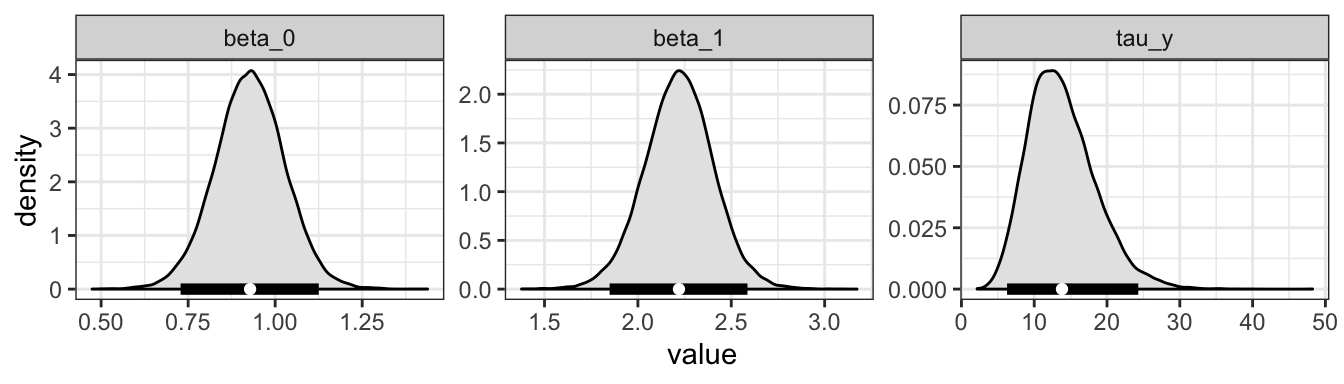
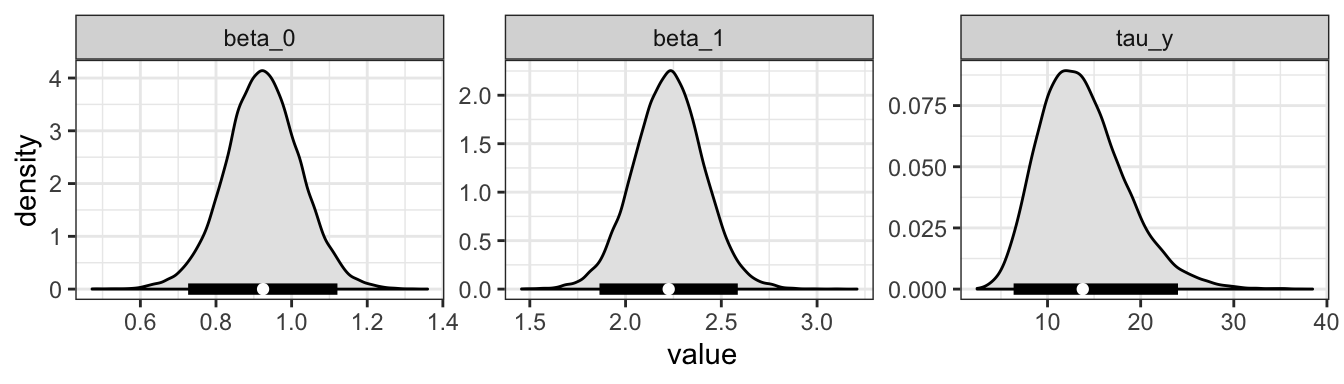
version bump + build pkgdown

diff --git a/docs/articles/lm.html b/docs/articles/lm.html
@@ -30,7 +30,7 @@
       </button>
       <span class="navbar-brand">
         <a class="navbar-link" href="../index.html">mmcc</a>
-        <span class="version label label-default" data-toggle="tooltip" data-placement="bottom" title="Released version">0.0.8.9200</span>
+        <span class="version label label-default" data-toggle="tooltip" data-placement="bottom" title="Released version">0.0.8.9300</span>
       </span>
     </div>
 
@@ -64,7 +64,7 @@
       <h1>Model summaries for a Bayesian linear regression</h1>
                         <h4 class="author">Sam Clifford</h4>
             
-            <h4 class="date">2019-01-30</h4>
+            <h4 class="date">2019-02-01</h4>
       
       
       <div class="hidden name"><code>lm.Rmd</code></div>
@@ -160,17 +160,17 @@
 <a class="sourceLine" id="cb6-4" data-line-number="4">samples_dt &lt;-<span class="st"> </span><span class="kw"><a href="../reference/mcmc_to_dt.html">mcmc_to_dt</a></span>(samples)</a>
 <a class="sourceLine" id="cb6-5" data-line-number="5">samples_dt</a>
 <a class="sourceLine" id="cb6-6" data-line-number="6"><span class="co">#&gt;         iteration chain  parameter     value</span></a>
-<a class="sourceLine" id="cb6-7" data-line-number="7"><span class="co">#&gt;      1:         1     1     beta_0 0.8760933</span></a>
-<a class="sourceLine" id="cb6-8" data-line-number="8"><span class="co">#&gt;      2:         2     1     beta_0 0.8384327</span></a>
-<a class="sourceLine" id="cb6-9" data-line-number="9"><span class="co">#&gt;      3:         3     1     beta_0 0.9508520</span></a>
-<a class="sourceLine" id="cb6-10" data-line-number="10"><span class="co">#&gt;      4:         4     1     beta_0 0.8710586</span></a>
-<a class="sourceLine" id="cb6-11" data-line-number="11"><span class="co">#&gt;      5:         5     1     beta_0 0.9335808</span></a>
+<a class="sourceLine" id="cb6-7" data-line-number="7"><span class="co">#&gt;      1:         1     1     beta_0 0.9112238</span></a>
+<a class="sourceLine" id="cb6-8" data-line-number="8"><span class="co">#&gt;      2:         2     1     beta_0 0.8010436</span></a>
+<a class="sourceLine" id="cb6-9" data-line-number="9"><span class="co">#&gt;      3:         3     1     beta_0 0.8643769</span></a>
+<a class="sourceLine" id="cb6-10" data-line-number="10"><span class="co">#&gt;      4:         4     1     beta_0 0.7944889</span></a>
+<a class="sourceLine" id="cb6-11" data-line-number="11"><span class="co">#&gt;      5:         5     1     beta_0 0.8408893</span></a>
 <a class="sourceLine" id="cb6-12" data-line-number="12"><span class="co">#&gt;     ---                                     </span></a>
-<a class="sourceLine" id="cb6-13" data-line-number="13"><span class="co">#&gt; 689996:      9996     3 y_pred[10] 3.1550568</span></a>
-<a class="sourceLine" id="cb6-14" data-line-number="14"><span class="co">#&gt; 689997:      9997     3 y_pred[10] 3.1757384</span></a>
-<a class="sourceLine" id="cb6-15" data-line-number="15"><span class="co">#&gt; 689998:      9998     3 y_pred[10] 3.0129327</span></a>
-<a class="sourceLine" id="cb6-16" data-line-number="16"><span class="co">#&gt; 689999:      9999     3 y_pred[10] 2.8482221</span></a>
-<a class="sourceLine" id="cb6-17" data-line-number="17"><span class="co">#&gt; 690000:     10000     3 y_pred[10] 2.2779931</span></a>
+<a class="sourceLine" id="cb6-13" data-line-number="13"><span class="co">#&gt; 689996:      9996     3 y_pred[10] 3.5722373</span></a>
+<a class="sourceLine" id="cb6-14" data-line-number="14"><span class="co">#&gt; 689997:      9997     3 y_pred[10] 3.3416762</span></a>
+<a class="sourceLine" id="cb6-15" data-line-number="15"><span class="co">#&gt; 689998:      9998     3 y_pred[10] 3.0006974</span></a>
+<a class="sourceLine" id="cb6-16" data-line-number="16"><span class="co">#&gt; 689999:      9999     3 y_pred[10] 3.3961728</span></a>
+<a class="sourceLine" id="cb6-17" data-line-number="17"><span class="co">#&gt; 690000:     10000     3 y_pred[10] 3.3583402</span></a>
 <a class="sourceLine" id="cb6-18" data-line-number="18"></a>
 <a class="sourceLine" id="cb6-19" data-line-number="19">pars_dt &lt;-<span class="st"> </span><span class="kw"><a href="https://www.rdocumentation.org/packages/generics/topics/tidy">tidy</a></span>(samples, </a>
 <a class="sourceLine" id="cb6-20" data-line-number="20">                <span class="dt">conf_level =</span> <span class="fl">0.95</span>, </a>
@@ -179,10 +179,10 @@
 <a class="sourceLine" id="cb6-23" data-line-number="23">                             <span class="st">"tau_y"</span>))</a>
 <a class="sourceLine" id="cb6-24" data-line-number="24"></a>
 <a class="sourceLine" id="cb6-25" data-line-number="25">pars_dt</a>
-<a class="sourceLine" id="cb6-26" data-line-number="26"><span class="co">#&gt;    parameter       mean        sd      2.5%     median     97.5%</span></a>
-<a class="sourceLine" id="cb6-27" data-line-number="27"><span class="co">#&gt; 1:    beta_0  0.9279217 0.1008911 0.7283281  0.9279731  1.125280</span></a>
-<a class="sourceLine" id="cb6-28" data-line-number="28"><span class="co">#&gt; 2:    beta_1  2.2199566 0.1855733 1.8485833  2.2213792  2.586719</span></a>
-<a class="sourceLine" id="cb6-29" data-line-number="29"><span class="co">#&gt; 3:     tau_y 13.8161022 4.6245668 6.2701035 13.3028801 24.296097</span></a></code></pre></div>
+<a class="sourceLine" id="cb6-26" data-line-number="26"><span class="co">#&gt;    parameter      mean        sd      2.5%    median     97.5%</span></a>
+<a class="sourceLine" id="cb6-27" data-line-number="27"><span class="co">#&gt; 1:    beta_0  0.924492 0.0994490 0.7262698  0.923934  1.121158</span></a>
+<a class="sourceLine" id="cb6-28" data-line-number="28"><span class="co">#&gt; 2:    beta_1  2.225250 0.1834351 1.8637230  2.226307  2.585992</span></a>
+<a class="sourceLine" id="cb6-29" data-line-number="29"><span class="co">#&gt; 3:     tau_y 13.782520 4.5543831 6.3572410 13.303498 24.008296</span></a></code></pre></div>
 <p>Summarise the line of best fit, <code>mu</code>, and the predictions, <code>y_pred</code>,</p>
 <div class="sourceCode" id="cb7"><pre class="sourceCode r"><code class="sourceCode r"><a class="sourceLine" id="cb7-1" data-line-number="1">mu_dt &lt;-<span class="st"> </span><span class="kw"><a href="https://www.rdocumentation.org/packages/generics/topics/tidy">tidy</a></span>(samples, </a>
 <a class="sourceLine" id="cb7-2" data-line-number="2">              <span class="dt">conf_level =</span> <span class="fl">0.95</span>, </a>
@@ -195,17 +195,17 @@
 <div class="sourceCode" id="cb8"><pre class="sourceCode r"><code class="sourceCode r"><a class="sourceLine" id="cb8-1" data-line-number="1">mu_dt[ , x<span class="op">:</span><span class="er">=</span><span class="st"> </span>x_pred]</a>
 <a class="sourceLine" id="cb8-2" data-line-number="2">y_dt[ , x<span class="op">:</span><span class="er">=</span><span class="st"> </span>x_pred]</a>
 <a class="sourceLine" id="cb8-3" data-line-number="3">y_dt</a>
-<a class="sourceLine" id="cb8-4" data-line-number="4"><span class="co">#&gt;      parameter      mean        sd      2.5%   median    97.5%         x</span></a>
-<a class="sourceLine" id="cb8-5" data-line-number="5"><span class="co">#&gt;  1:  y_pred[1] 0.9548077 0.3045670 0.3592322 0.954215 1.561929 0.0112199</span></a>
-<a class="sourceLine" id="cb8-6" data-line-number="6"><span class="co">#&gt;  2:  y_pred[2] 1.1960730 0.2982312 0.6118881 1.197640 1.793844 0.1202395</span></a>
-<a class="sourceLine" id="cb8-7" data-line-number="7"><span class="co">#&gt;  3:  y_pred[3] 1.4370874 0.2937579 0.8548740 1.437338 2.016432 0.2292590</span></a>
-<a class="sourceLine" id="cb8-8" data-line-number="8"><span class="co">#&gt;  4:  y_pred[4] 1.6771841 0.2923636 1.0957180 1.678103 2.255539 0.3382786</span></a>
-<a class="sourceLine" id="cb8-9" data-line-number="9"><span class="co">#&gt;  5:  y_pred[5] 1.9210605 0.2932465 1.3441529 1.920784 2.500208 0.4472982</span></a>
-<a class="sourceLine" id="cb8-10" data-line-number="10"><span class="co">#&gt;  6:  y_pred[6] 2.1613441 0.2932627 1.5804239 2.161851 2.744904 0.5563177</span></a>
-<a class="sourceLine" id="cb8-11" data-line-number="11"><span class="co">#&gt;  7:  y_pred[7] 2.4030559 0.2944804 1.8190094 2.402740 2.983987 0.6653373</span></a>
-<a class="sourceLine" id="cb8-12" data-line-number="12"><span class="co">#&gt;  8:  y_pred[8] 2.6462795 0.2984577 2.0518081 2.643821 3.241694 0.7743569</span></a>
-<a class="sourceLine" id="cb8-13" data-line-number="13"><span class="co">#&gt;  9:  y_pred[9] 2.8886681 0.3040799 2.2851520 2.887935 3.491639 0.8833765</span></a>
-<a class="sourceLine" id="cb8-14" data-line-number="14"><span class="co">#&gt; 10: y_pred[10] 3.1322683 0.3115330 2.5160937 3.132009 3.754816 0.9923960</span></a></code></pre></div>
+<a class="sourceLine" id="cb8-4" data-line-number="4"><span class="co">#&gt;      parameter      mean        sd      2.5%    median    97.5%         x</span></a>
+<a class="sourceLine" id="cb8-5" data-line-number="5"><span class="co">#&gt;  1:  y_pred[1] 0.9478433 0.3002920 0.3506615 0.9463829 1.543704 0.0112199</span></a>
+<a class="sourceLine" id="cb8-6" data-line-number="6"><span class="co">#&gt;  2:  y_pred[2] 1.1934373 0.2980774 0.6011571 1.1921787 1.788495 0.1202395</span></a>
+<a class="sourceLine" id="cb8-7" data-line-number="7"><span class="co">#&gt;  3:  y_pred[3] 1.4349571 0.2944812 0.8523959 1.4342498 2.023439 0.2292590</span></a>
+<a class="sourceLine" id="cb8-8" data-line-number="8"><span class="co">#&gt;  4:  y_pred[4] 1.6742918 0.2935478 1.0907819 1.6740384 2.257015 0.3382786</span></a>
+<a class="sourceLine" id="cb8-9" data-line-number="9"><span class="co">#&gt;  5:  y_pred[5] 1.9206716 0.2941172 1.3418086 1.9225791 2.500972 0.4472982</span></a>
+<a class="sourceLine" id="cb8-10" data-line-number="10"><span class="co">#&gt;  6:  y_pred[6] 2.1638978 0.2947522 1.5818237 2.1642891 2.750502 0.5563177</span></a>
+<a class="sourceLine" id="cb8-11" data-line-number="11"><span class="co">#&gt;  7:  y_pred[7] 2.4055666 0.2966433 1.8186290 2.4031570 2.997888 0.6653373</span></a>
+<a class="sourceLine" id="cb8-12" data-line-number="12"><span class="co">#&gt;  8:  y_pred[8] 2.6480627 0.2998802 2.0558604 2.6485508 3.246963 0.7743569</span></a>
+<a class="sourceLine" id="cb8-13" data-line-number="13"><span class="co">#&gt;  9:  y_pred[9] 2.8927452 0.3072666 2.2852859 2.8905180 3.509767 0.8833765</span></a>
+<a class="sourceLine" id="cb8-14" data-line-number="14"><span class="co">#&gt; 10: y_pred[10] 3.1366084 0.3113266 2.5240160 3.1354399 3.759669 0.9923960</span></a></code></pre></div>
 <p>Now we’ll generate a plot that shows the data, a 95% credible interval for the predictions, <span class="math inline">\({\hat{\bm{y}}}_{pred}\)</span>, and a 95% credible interval for their means, <span class="math inline">\({\hat{\bm{\mu}}}_{pred}\)</span>.</p>
 <p><img src="lm_files/figure-html/mmcc-plot-cr-i-1.png" width="700" style="display: block; margin: auto;"></p>
 <p>If we tidy the <code>samples</code> object, we can look at the distribution of values</p>

diff --git a/docs/reference/example_jags_model.html b/docs/reference/example_jags_model.html
@@ -6,7 +6,7 @@
 <meta http-equiv="X-UA-Compatible" content="IE=edge">
 <meta name="viewport" content="width=device-width, initial-scale=1.0">
 
-<title>Batch Means Standard Errors — diag_mc_stderr • mmcc</title>
+<title>Example JAGS Model — example_jags_model • mmcc</title>
 
 <!-- jquery -->
 <script src="https://cdnjs.cloudflare.com/ajax/libs/jquery/3.3.1/jquery.min.js" integrity="sha256-FgpCb/KJQlLNfOu91ta32o/NMZxltwRo8QtmkMRdAu8=" crossorigin="anonymous"></script>
@@ -30,9 +30,14 @@
 
 
 
-<meta property="og:title" content="Batch Means Standard Errors — diag_mc_stderr" />
+<meta property="og:title" content="Example JAGS Model — example_jags_model" />
 
-<meta property="og:description" content="Calculate Monte Carlo Standard Errors Using Batch Means" />
+<meta property="og:description" content="This is an example JAGS model to use for examples in the `mmcc` package. The
+    model is fit as a basic linear regression, with uniform priors on beta0
+    and beta1, where y is assumed to be normal, with mean mu and precision
+    tau. The model is drawn from the vignette, &quot;Model summaries for a
+    Bayesian linear regression&quot;, and the code to generate it can be found in
+    the `data-raw` folder." />
 <meta name="twitter:card" content="summary" />
 
 
@@ -97,65 +102,38 @@
 <div class="row">
   <div class="col-md-9 contents">
     <div class="page-header">
-    <h1>Batch Means Standard Errors</h1>
+    <h1>Example JAGS Model</h1>
     
-    <div class="hidden name"><code>diag_mc_stderr.Rd</code></div>
+    <div class="hidden name"><code>example_jags_model.Rd</code></div>
     </div>
 
     <div class="ref-description">
     
-    <p>Calculate Monte Carlo Standard Errors Using Batch Means</p>
+    <p>This is an example JAGS model to use for examples in the `mmcc` package. The
+    model is fit as a basic linear regression, with uniform priors on beta0
+    and beta1, where y is assumed to be normal, with mean mu and precision
+    tau. The model is drawn from the vignette, "Model summaries for a
+    Bayesian linear regression", and the code to generate it can be found in
+    the `data-raw` folder.</p>
     
     </div>
 
-    <pre class="usage"><span class='fu'>diag_mc_stderr</span>(<span class='no'>x</span>, <span class='kw'>b_size</span> <span class='kw'>=</span> <span class='st'>"sqroot"</span>, <span class='kw'>warn</span> <span class='kw'>=</span> <span class='fl'>TRUE</span>)</pre>
-    
-    <h2 class="hasAnchor" id="arguments"><a class="anchor" href="#arguments"></a>Arguments</h2>
-    <table class="ref-arguments">
-    <colgroup><col class="name" /><col class="desc" /></colgroup>
-    <tr>
-      <th>x</th>
-      <td><p>'mcmc.list' or 'data.table' object</p></td>
-    </tr>
-    <tr>
-      <th>b_size</th>
-      <td><p>character, method for determining size of batch (see Details)</p></td>
-    </tr>
-    <tr>
-      <th>warn</th>
-      <td><p>logical, give a warning of there are too few samples in the MCMC output</p></td>
-    </tr>
-    </table>
-    
-    <h2 class="hasAnchor" id="details"><a class="anchor" href="#details"></a>Details</h2>
+    <pre class="usage"><span class='fu'><a href='https://www.rdocumentation.org/packages/utils/topics/data'>data</a></span>(<span class='no'>example_jags_model</span>)</pre>
+        
+    <h2 class="hasAnchor" id="format"><a class="anchor" href="#format"></a>Format</h2>
 
-    <p>For the batch size, the options are 'sqroot', for using the using the square root of the MCMC output length, or 'cuberoot', for using the cube root of the output length. The default is 'sqroot'.</p>
-    
-    <h2 class="hasAnchor" id="references"><a class="anchor" href="#references"></a>References</h2>
-
-    <p>Galin L. Jones, Murali Haran, Brian S. Caffo, and Ronald Neath (2006). "Fixed-Width Output Analysis for Markov Chain Monte Carlo," Journal of the American Statistical Association, 101, 1537--1547</p>
+    <p>An object of class <code>jags</code> of length 8.</p>
     
 
     <h2 class="hasAnchor" id="examples"><a class="anchor" href="#examples"></a>Examples</h2>
-    <pre class="examples"><div class='input'><span class='fu'><a href='https://www.rdocumentation.org/packages/base/topics/library'>library</a></span>(<span class='no'>coda</span>)
-<span class='fu'><a href='https://www.rdocumentation.org/packages/utils/topics/data'>data</a></span>(<span class='no'>line</span>)
-<span class='no'>r</span> <span class='kw'>&lt;-</span> <span class='fu'>diag_mc_stderr</span>(<span class='no'>line</span>)</div><div class='output co'>#&gt; <span class='warning'>Warning: likely too few samples (less than 1000) for estimating Monte Carlo standard errors</span></div><div class='output co'>#&gt; <span class='warning'>Warning: likely too few samples (less than 1000) for estimating Monte Carlo standard errors</span></div><div class='output co'>#&gt; <span class='warning'>Warning: likely too few samples (less than 1000) for estimating Monte Carlo standard errors</span></div><div class='output co'>#&gt; <span class='warning'>Warning: likely too few samples (less than 1000) for estimating Monte Carlo standard errors</span></div><div class='output co'>#&gt; <span class='warning'>Warning: likely too few samples (less than 1000) for estimating Monte Carlo standard errors</span></div><div class='output co'>#&gt; <span class='warning'>Warning: likely too few samples (less than 1000) for estimating Monte Carlo standard errors</span></div><div class='input'><span class='no'>r</span></div><div class='output co'>#&gt;    parameter chain      mean      value
-#&gt; 1:     alpha     1 2.9826146 0.03667355
-#&gt; 2:     alpha     2 2.9925142 0.03001358
-#&gt; 3:      beta     1 0.7866946 0.02285799
-#&gt; 4:      beta     2 0.8116781 0.02778074
-#&gt; 5:     sigma     1 0.9544249 0.10259971
-#&gt; 6:     sigma     2 0.9816789 0.04737521</div><div class='input'>
-</div></pre>
+    <pre class="examples"><div class='input'>
+<span class='fu'><a href='https://www.rdocumentation.org/packages/generics/topics/glance'>glance</a></span>(<span class='no'>example_jags_model</span>)</div><div class='output co'>#&gt; <span class='error'>Error: No glance method for objects of class jags</span></div></pre>
   </div>
   <div class="col-md-3 hidden-xs hidden-sm" id="sidebar">
     <h2>Contents</h2>
     <ul class="nav nav-pills nav-stacked">
-      <li><a href="#arguments">Arguments</a></li>
       
-      <li><a href="#details">Details</a></li>
-
-      <li><a href="#references">References</a></li>
+      <li><a href="#format">Format</a></li>
       
       <li><a href="#examples">Examples</a></li>
     </ul>

diff --git a/docs/news/index.html b/docs/news/index.html
@@ -60,7 +60,7 @@
       </button>
       <span class="navbar-brand">
         <a class="navbar-link" href="../index.html">mmcc</a>
-        <span class="version label label-default" data-toggle="tooltip" data-placement="bottom" title="Released version">0.0.8.9200</span>
+        <span class="version label label-default" data-toggle="tooltip" data-placement="bottom" title="Released version">0.0.8.9300</span>
       </span>
     </div>
 
@@ -98,6 +98,19 @@
       
     </div>
 
+    <div id="mmcc-0-0-8-9300-20190201" class="section level1">
+<h1 class="page-header">
+<a href="#mmcc-0-0-8-9300-20190201" class="anchor"></a>mmcc 0.0.8.9300 (2019/02/01)</h1>
+<div id="minor-changes" class="section level2">
+<h2 class="hasAnchor">
+<a href="#minor-changes" class="anchor"></a>Minor Changes</h2>
+<ul>
+<li>added <code>example_jags_model</code> as an example data set to use in package</li>
+<li>added tests for <code><a href="../reference/thin_dt.html">thin_dt()</a></code> and <code><a href="../reference/glance.dic.html">glance.dic()</a></code>
+</li>
+</ul>
+</div>
+</div>
     <div id="mmcc-0-0-8-9200-20190130" class="section level1">
 <h1 class="page-header">
 <a href="#mmcc-0-0-8-9200-20190130" class="anchor"></a>mmcc 0.0.8.9200 (2019/01/30)</h1>
@@ -108,9 +121,9 @@
 <li>Add Haran et al’s batch means function to diagnostics (#25)</li>
 </ul>
 </div>
-<div id="minor-changes" class="section level2">
+<div id="minor-changes-1" class="section level2">
 <h2 class="hasAnchor">
-<a href="#minor-changes" class="anchor"></a>Minor Changes</h2>
+<a href="#minor-changes-1" class="anchor"></a>Minor Changes</h2>
 <ul>
 <li>Updated to use generics instead of importing broom</li>
 <li>Removed greta vignette as the python/tensorflow build problems were stopping he package from building properley</li>
@@ -144,9 +157,9 @@
     <div id="mmcc-0-0-6-9001-20170613" class="section level1">
 <h1 class="page-header">
 <a href="#mmcc-0-0-6-9001-20170613" class="anchor"></a>mmcc 0.0.6.9001 (2017/06/13)</h1>
-<div id="minor-changes-1" class="section level2">
+<div id="minor-changes-2" class="section level2">
 <h2 class="hasAnchor">
-<a href="#minor-changes-1" class="anchor"></a>Minor Changes</h2>
+<a href="#minor-changes-2" class="anchor"></a>Minor Changes</h2>
 <ul>
 <li>changes name to `mmcc``</li>
 </ul>
@@ -155,9 +168,9 @@
     <div id="dsmcmc-0-0-5-9001-20170613" class="section level1">
 <h1 class="page-header">
 <a href="#dsmcmc-0-0-5-9001-20170613" class="anchor"></a>dsmcmc 0.0.5.9001 (2017/06/13)</h1>
-<div id="minor-changes-2" class="section level2">
+<div id="minor-changes-3" class="section level2">
 <h2 class="hasAnchor">
-<a href="#minor-changes-2" class="anchor"></a>Minor Changes</h2>
+<a href="#minor-changes-3" class="anchor"></a>Minor Changes</h2>
 <ul>
 <li>changes name to `mmcc``</li>
 <li>added <code>thin_dt</code>, to allow post hoc thinning of chains</li>
@@ -168,9 +181,9 @@
     <div id="dsmcmc-0-0-5-9000-20170612" class="section level1">
 <h1 class="page-header">
 <a href="#dsmcmc-0-0-5-9000-20170612" class="anchor"></a>dsmcmc 0.0.5.9000 (2017/06/12)</h1>
-<div id="minor-changes-3" class="section level2">
+<div id="minor-changes-4" class="section level2">
 <h2 class="hasAnchor">
-<a href="#minor-changes-3" class="anchor"></a>Minor Changes</h2>
+<a href="#minor-changes-4" class="anchor"></a>Minor Changes</h2>
 <ul>
 <li>Changes <code>tidy</code> summaries to be lowercase.</li>
 <li>Added <code>broom</code> to Depends to make <code>tidy.mcmc.list</code> to work with <code>tidy</code>, since <code>@importFrom broom tidy</code> didn’t really seem to work, and I want to be able to just call <code>tidy</code>.</li>
@@ -231,6 +244,7 @@
     <div id="tocnav">
       <h2>Contents</h2>
       <ul class="nav nav-pills nav-stacked">
+        <li><a href="#mmcc-0-0-8-9300-20190201">0.0.8.9300</a></li>
         <li><a href="#mmcc-0-0-8-9200-20190130">0.0.8.9200</a></li>
         <li><a href="#mmcc-0-0-7-9000-20180803">0.0.7.9000</a></li>
         <li><a href="#mmcc-0-0-6-9100-20171108">0.0.6.9100</a></li>

diff --git a/docs/reference/glance.dic.html b/docs/reference/glance.dic.html
@@ -65,7 +65,7 @@
       </button>
       <span class="navbar-brand">
         <a class="navbar-link" href="../index.html">mmcc</a>
-        <span class="version label label-default" data-toggle="tooltip" data-placement="bottom" title="Released version">0.0.8.9200</span>
+        <span class="version label label-default" data-toggle="tooltip" data-placement="bottom" title="Released version">0.0.8.9300</span>
       </span>
     </div>
 
@@ -133,6 +133,8 @@
     <p>a one-row dataframe of summary information of the dic samples</p>
     
 
+    <h2 class="hasAnchor" id="examples"><a class="anchor" href="#examples"></a>Examples</h2>
+    <pre class="examples"><div class='input'><span class='fu'><a href='https://www.rdocumentation.org/packages/base/topics/library'>library</a></span>(<span class='no'>rjags</span>)</div><div class='output co'>#&gt; <span class='message'>Linked to JAGS 4.2.0</span></div><div class='output co'>#&gt; <span class='message'>Loaded modules: basemod,bugs</span></div><div class='input'><span class='no'>model_dic</span> <span class='kw'>&lt;-</span> <span class='fu'><a href='https://www.rdocumentation.org/packages/rjags/topics/dic.samples'>dic.samples</a></span>(<span class='no'>example_jags_model</span>, <span class='kw'>n.iter</span> <span class='kw'>=</span> <span class='fl'>1000</span>)</div><div class='output co'>#&gt; <span class='error'>Error in nchain(model): JAGS model must be recompiled</span></div><div class='input'><span class='fu'><a href='https://www.rdocumentation.org/packages/generics/topics/glance'>glance</a></span>(<span class='no'>model_dic</span>)</div><div class='output co'>#&gt; <span class='error'>Error in glance(model_dic): object 'model_dic' not found</span></div></pre>
   </div>
   <div class="col-md-3 hidden-xs hidden-sm" id="sidebar">
     <h2>Contents</h2>
@@ -140,7 +142,9 @@
       <li><a href="#arguments">Arguments</a></li>
       
       <li><a href="#value">Value</a></li>
-          </ul>
+      
+      <li><a href="#examples">Examples</a></li>
+    </ul>
 
     <h2>Author</h2>
     <p>Sam Clifford, <a href='mailto:sj.clifford@gmail.com'>sj.clifford@gmail.com</a></p>

diff --git a/docs/reference/index.html b/docs/reference/index.html
@@ -60,7 +60,7 @@
       </button>
       <span class="navbar-brand">
         <a class="navbar-link" href="../index.html">mmcc</a>
-        <span class="version label label-default" data-toggle="tooltip" data-placement="bottom" title="Released version">0.0.8.9200</span>
+        <span class="version label label-default" data-toggle="tooltip" data-placement="bottom" title="Released version">0.0.8.9300</span>
       </span>
     </div>
 
@@ -118,6 +118,12 @@
           <p><code><a href="diag_mc_stderr.html">diag_mc_stderr()</a></code> </p>
         </td>
         <td><p>Batch Means Standard Errors</p></td>
+      </tr><tr>
+        
+        <td>
+          <p><code><a href="example_jags_model.html">example_jags_model</a></code> </p>
+        </td>
+        <td><p>Example JAGS Model</p></td>
       </tr><tr>
         
         <td>

diff --git a/docs/reference/reexports.html b/docs/reference/reexports.html
@@ -67,7 +67,7 @@ below to see their documentation.
       </button>
       <span class="navbar-brand">
         <a class="navbar-link" href="../index.html">mmcc</a>
-        <span class="version label label-default" data-toggle="tooltip" data-placement="bottom" title="Released version">0.0.8.9200</span>
+        <span class="version label label-default" data-toggle="tooltip" data-placement="bottom" title="Released version">0.0.8.9300</span>
       </span>
     </div>
 

diff --git a/docs/articles/index.html b/docs/articles/index.html
@@ -60,7 +60,7 @@
       </button>
       <span class="navbar-brand">
         <a class="navbar-link" href="../index.html">mmcc</a>
-        <span class="version label label-default" data-toggle="tooltip" data-placement="bottom" title="Released version">0.0.8.9200</span>
+        <span class="version label label-default" data-toggle="tooltip" data-placement="bottom" title="Released version">0.0.8.9300</span>
       </span>
     </div>
 

diff --git a/docs/reference/glance.mcmc.list.html b/docs/reference/glance.mcmc.list.html
@@ -65,7 +65,7 @@
       </button>
       <span class="navbar-brand">
         <a class="navbar-link" href="../index.html">mmcc</a>
-        <span class="version label label-default" data-toggle="tooltip" data-placement="bottom" title="Released version">0.0.8.9200</span>
+        <span class="version label label-default" data-toggle="tooltip" data-placement="bottom" title="Released version">0.0.8.9300</span>
       </span>
     </div>
 

diff --git a/docs/reference/mcmc_to_dt.html b/docs/reference/mcmc_to_dt.html
@@ -64,7 +64,7 @@
       </button>
       <span class="navbar-brand">
         <a class="navbar-link" href="../index.html">mmcc</a>
-        <span class="version label label-default" data-toggle="tooltip" data-placement="bottom" title="Released version">0.0.8.9200</span>
+        <span class="version label label-default" data-toggle="tooltip" data-placement="bottom" title="Released version">0.0.8.9300</span>
       </span>
     </div>
 

diff --git a/docs/reference/mcmc_to_dt_stan.html b/docs/reference/mcmc_to_dt_stan.html
@@ -63,7 +63,7 @@
       </button>
       <span class="navbar-brand">
         <a class="navbar-link" href="../index.html">mmcc</a>
-        <span class="version label label-default" data-toggle="tooltip" data-placement="bottom" title="Released version">0.0.8.9200</span>
+        <span class="version label label-default" data-toggle="tooltip" data-placement="bottom" title="Released version">0.0.8.9300</span>
       </span>
     </div>
 

diff --git a/docs/reference/thin_dt.html b/docs/reference/thin_dt.html
@@ -63,7 +63,7 @@
       </button>
       <span class="navbar-brand">
         <a class="navbar-link" href="../index.html">mmcc</a>
-        <span class="version label label-default" data-toggle="tooltip" data-placement="bottom" title="Released version">0.0.8.9200</span>
+        <span class="version label label-default" data-toggle="tooltip" data-placement="bottom" title="Released version">0.0.8.9300</span>
       </span>
     </div>
 

diff --git a/docs/reference/tidy.mcmc.list.html b/docs/reference/tidy.mcmc.list.html
@@ -67,7 +67,7 @@
       </button>
       <span class="navbar-brand">
         <a class="navbar-link" href="../index.html">mmcc</a>
-        <span class="version label label-default" data-toggle="tooltip" data-placement="bottom" title="Released version">0.0.8.9200</span>
+        <span class="version label label-default" data-toggle="tooltip" data-placement="bottom" title="Released version">0.0.8.9300</span>
       </span>
     </div>
 
